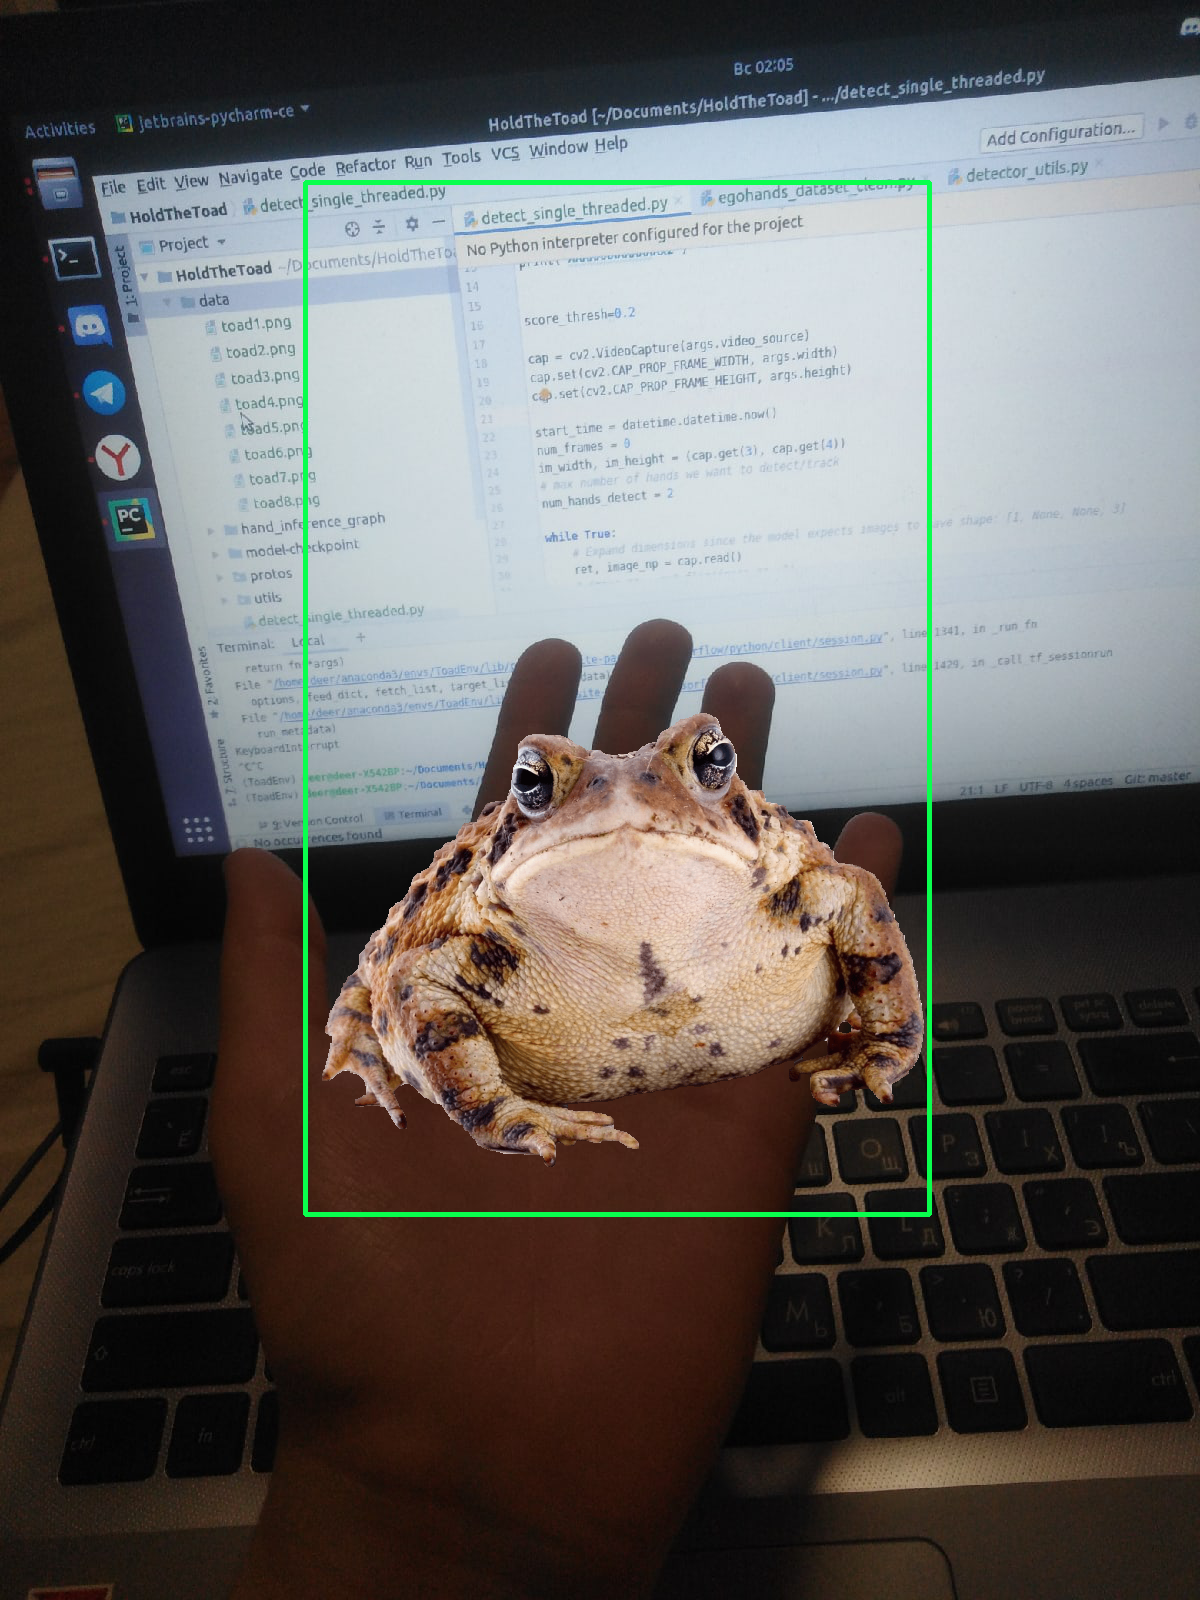
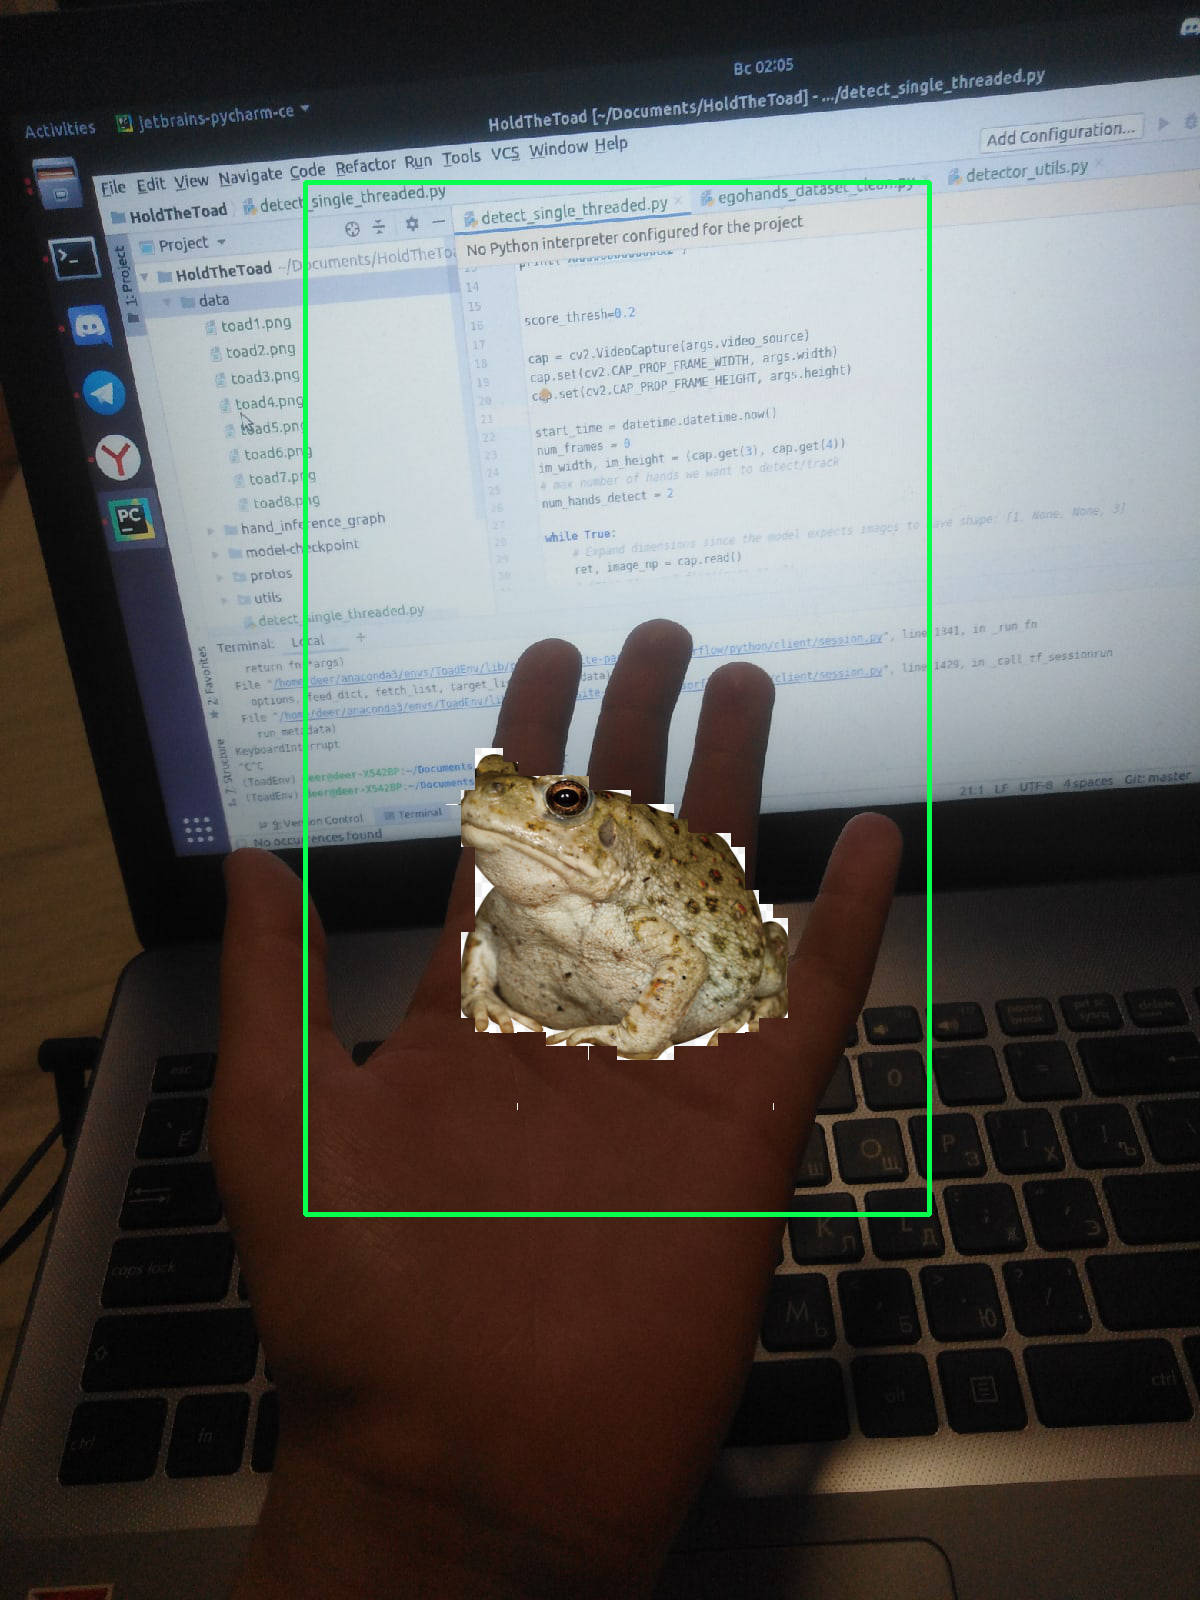
Немножко улучшено построение маски + вращатель жаб

Changed region(s): [[0.2467, 0.4375, 0.7708, 0.75]]

diff --git a/utils/detector_utils.py b/utils/detector_utils.py
@@ -108,11 +108,18 @@ def overlay_image(bg, fg, coords):
     # изображения, но он содержит только маску наложения
     alpha = np.zeros(bg.shape[:2], dtype="uint8")
     dwiMask = cv2.cvtColor(fg, cv2.COLOR_BGRA2GRAY)
-    dwiMask = cv2.threshold(dwiMask, 0, 255, cv2.THRESH_BINARY)[1]
-    kernel = np.ones((6, 6), np.uint8)
-    op = cv2.erode(dwiMask, kernel, iterations = 1)
-    kernel1 = np.ones((7, 7), np.uint8)
-    op = cv2.morphologyEx(op, cv2.MORPH_OPEN, kernel1)
+    cv2.imwrite('gray.jpg', dwiMask)
+    #dwiMask = cv2.threshold(dwiMask, 0, 255, cv2.THRESH_BINARY_INV)[1]
+    dwiMask = cv2.adaptiveThreshold(dwiMask, 255, cv2.ADAPTIVE_THRESH_GAUSSIAN_C,  cv2.THRESH_BINARY_INV, 11, 2)
+    cv2.imwrite('mask.jpg', dwiMask)
+    kernel = np.ones((13, 13), np.uint8)
+    #op = cv2.morphologyEx(dwiMask, cv2.MORPH_CLOSE, kernel)
+    dil = cv2.dilate(dwiMask,kernel,iterations = 1)
+    kernel = np.ones((27, 27), np.uint8)
+    op = cv2.erode(dil, kernel, iterations = 1)
+    #kernel1 = np.ones((10, 10), np.uint8)
+    #op = cv2.morphologyEx(op, cv2.MORPH_OPEN, kernel1)
+    cv2.imwrite('mask1.jpg', op)
     alpha[y:y + sH, x:x + sW] = op
     alpha = np.dstack([alpha] * 3)
 

diff --git a/test.py b/test.py
@@ -1,0 +1,23 @@
+import cv2
+import numpy as np
+import os
+import imutils
+
+pth = '/home/deer/Pictures/toads'
+pth1 = '/home/deer/Pictures/toads/new'
+path = list(os.walk(pth))
+
+for file in path[0][2]:
+    image = cv2.imread(pth+'/'+file)
+    size = max(image.shape)
+    n_image = np.full((size, size, 3), 255).astype(np.float32)
+    n_image[0:image.shape[0], 0:image.shape[1]] = image
+    n_image = cv2.resize(n_image, (200, 200))
+    cv2.imwrite(pth1+'/'+file.replace('.jpg', '-n.jpg'), n_image)
+    n_image_15 = imutils.rotate_bound(n_image, 15)
+    cv2.imwrite(pth1 + '/' + file.replace('.jpg', '-n15.jpg'), n_image_15)
+    #n_image__15 = imutils.rotate_bound(n_image, -15)
+    #cv2.imwrite(pth1 + '/' + file.replace('.jpg', '-n_15.jpg'), n_image__15)
+
+    #nn_image = cv2.flip(n_image, 1)
+    #cv2.imwrite(pth1 + '/' + file.replace('.jpg', '-nn.jpg'), nn_image)

diff --git a/detect_single_threaded.py b/detect_single_threaded.py
@@ -12,8 +12,8 @@ score_thresh=0.2
 num_hands_detect = 1
 
 image_np = cv2.imread('./source/hand.jpg')
-toad = cv2.imread('./data/toad1.png', cv2.IMREAD_UNCHANGED)
-toad = detector_utils.prepare_image(toad)
+toad = cv2.imread('./data/toad3.jpg')
+#toad = detector_utils.prepare_image(toad)
 print(toad.shape)
 cv2.imwrite('toad.png', toad)
 
